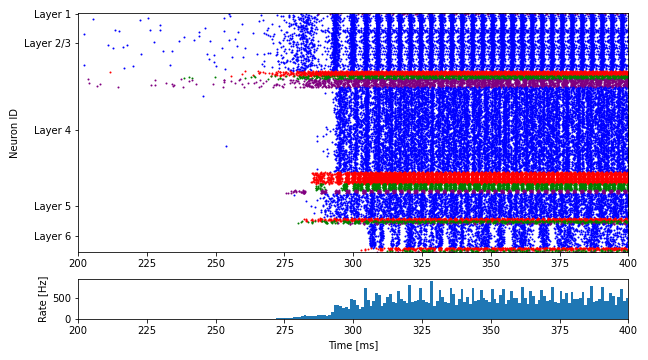
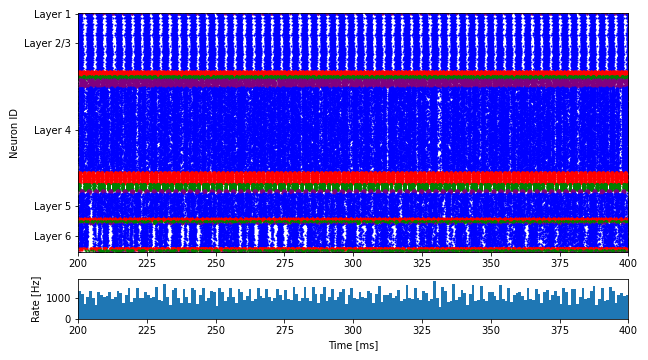
updated

diff --git a/simulation/optimize_bkg_input.py b/simulation/optimize_bkg_input.py
@@ -5,22 +5,26 @@ import subprocess
 import pickle
 from setup import setup
 import os
+import time
+
 
 def objective_function(**args):
     # Set the network parameters based on the input values
     n_workers = 8
     
+    print("Starting step...")
+    st = time.time()
+    
     params = setup()
     ## Set the amount of analysis done during runtime. Minimize stuff done
     ## for faster results
     params['calc_lfp'] = False
-    params['verbose']  = True
+    params['verbose']  = False
     params['opt_run']  = True
     
     ## Change values and run the function with different parameters
     params['ext_rate'] = args['ext_rate']
     params['ext_weights'] = np.array([args[x] for x in args if 'weight' in x])
-    #params['K_scale'] = args['K_scale']
 
     ## Write parameters to file so the network can read it in
     with open("params", 'wb') as f:
@@ -33,17 +37,17 @@ def objective_function(**args):
     ## Run the simulation in parallel by calling the simulation script with MPI  
     command = f"mpirun -n {n_workers} --verbose python3 run.py"
     
-    process = subprocess.Popen(command.split(), stdout=subprocess.PIPE, stderr=subprocess.PIPE, ##stdout=subprocess.DEVNULL,
+    process = subprocess.Popen(command.split(), stdout=subprocess.DEVNULL, stderr=subprocess.DEVNULL,##stdout=subprocess.PIPE, stderr=subprocess.PIPE, 
                                cwd=cwd, env=env)
     
     return_code = process.wait()
     print("Script exited with return code:", return_code)
-    output, error = process.communicate()
-    print("Standard output:\n", output.decode())
-    print("Error output:\n", error.decode())
+    # output, error = process.communicate()
+    # print("Standard output:\n", output.decode())
+    # print("Error output:\n", error.decode())
     
-    process.stdout.close()
-    process.stderr.close()
+    #process.stdout.close()
+    #process.stderr.close()
     
     # Read the results from the file
     with open("sim_results", 'rb') as f:
@@ -54,14 +58,15 @@ def objective_function(**args):
         print("Run was aborted due to excessive spiking")
     
     ## Define target values
-    target_irregularity = 0.8
-    target_synchrony    = 0.1
-    target_firing_rate  = 5
+    target_irregularity = 0.9
+    target_synchrony    = 0.05
+    target_firing_rate  = 2
     
     ## Compute scores for how close to our target values we got this run
     scores = [(target_irregularity - irregularity[i])**2 + (synchrony[i] - target_synchrony)**2 + (firing_rate[i] - target_firing_rate)**2 for i in list(range(len(irregularity)))]
     
-    print(f"Scores:\n {scores}")
+    print(f"Firing rates:\n {firing_rate}")
+    print(f"Duration of simulation: {time.time() - st}")
     # Return the negative of the score since the Bayesian optimization maximizes the objective function
     return -np.mean(scores)
 
@@ -71,8 +76,8 @@ def optimize_network(optimizer):
     optimizer.set_gp_params(alpha=1e-5, n_restarts_optimizer=5, normalize_y=True)
     
     optimizer.maximize(
-            init_points=50,
-            n_iter=300,
+            init_points=30,
+            n_iter=200,
             acquisition_function=uf
         )
     # best = None
@@ -101,7 +106,7 @@ def optimize_network(optimizer):
 if __name__ == '__main__':
     # Define the parameter space    
     pbounds = dict()
-    pbounds['ext_rate'] = (0.5, 8)
+    pbounds['ext_rate'] = (0.5, 1)
     for i in range(17):
         #pbounds[f'pop{i}_stim_nodes'] = (500,2000)
         pbounds[f'pop{i}_weights'] = (1e-24, 14e0)
@@ -122,5 +127,6 @@ if __name__ == '__main__':
     #with MPIPoolExecutor(max_workers=n_workers) as executor:
     params= optimize_network(optimizer)
     print(optimizer.max['params'])
-    with open("best_params", 'wb') as f:
+    with open("simresults/best_params", 'wb') as f:
         pickle.dump(optimizer.max['params'], f)
+    

diff --git a/simulation/run.py b/simulation/run.py
@@ -56,9 +56,6 @@ def run_network():
     ## Create the network ##
     ########################
     
-    
-    
-    
     ## Start parallelization here?
     ## Get the rank of the MPI process
     comm = MPI.COMM_WORLD
@@ -118,10 +115,12 @@ def run_network():
     while simulating: 
         ## End the simulation if the given time has been reached or the
         ## simulation takes too much time (excessive spiking)
-        if time.time() - time_step > 20:
+        if time.time() - time_step > 5 and simulation_time > 50:
             simulating = False
-            if params['verbose']:    
-                print("Extreme spiking, aborting run...")
+            # if params['verbose']:    
+            #     print("Extreme spiking, aborting run...")
+            if params['verbose']:
+                print(f"Simulation interrupted at {simulation_time} because it took {time.time() - time_step} seconds.")
             with open("sim_results", 'wb') as f:
                 data = ([10000]*17, [10000]*17, [10000]*17)
                 pickle.dump(data, f)
@@ -135,7 +134,7 @@ def run_network():
             time_step = time.time()
             network.simulate(10)
             simulation_time += 10
-            print(f"Simulating for {simulation_time}.\nTime taken for simulating 10ms: {time.time() - time_step}ms")
+            #print(f"Simulating for {simulation_time}.\nTime taken for simulating 10ms: {time.time() - time_step}s")
     
     if params['verbose']:
         print(f"Time required for simulation: {time.time() - st}")
@@ -156,6 +155,7 @@ def run_network():
     spike_res = MPI.COMM_WORLD.gather(spikes, root=0)
     
     
+    
     if rank == 0:
         
         ## join the results
@@ -164,9 +164,12 @@ def run_network():
         ## Prepare data for graphing
         spikes = prep_spikes(spikes, network)
         
+        if params['verbose']:
+            print(f"Done. Time required for simulation and gathering: {time.time() - st}")
+        
         if not params['opt_run']:
             
-            print("Done! Graphing spikes...")
+            print("Graphing spikes...")
             ## Define colors used in the raster plot per neuron population based on label
             label = network.get_labels()
             colors = ["b" if l == "E" else "r" if l == "Pv" else "green" if l == "Sst" else "purple" for l in label]
